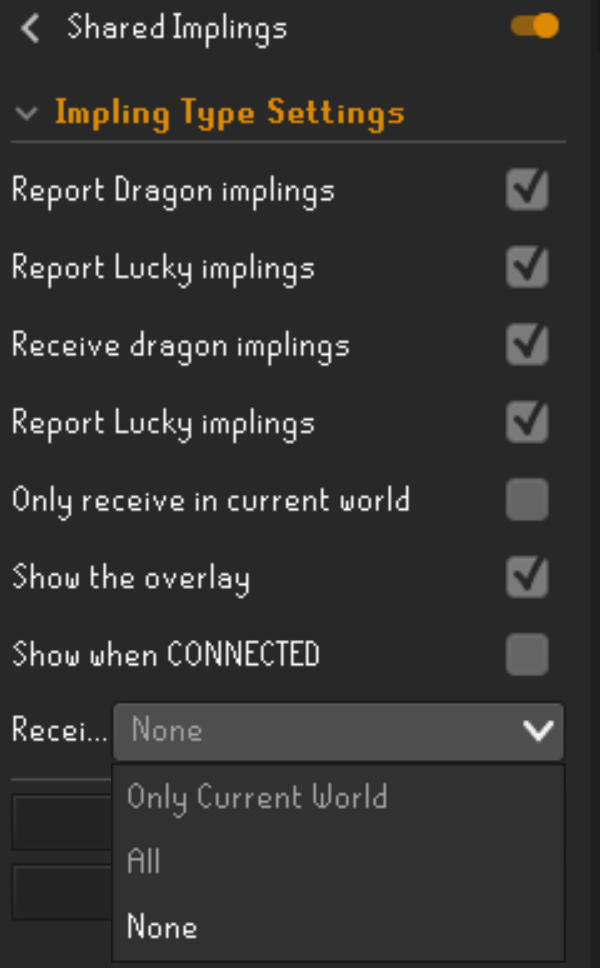
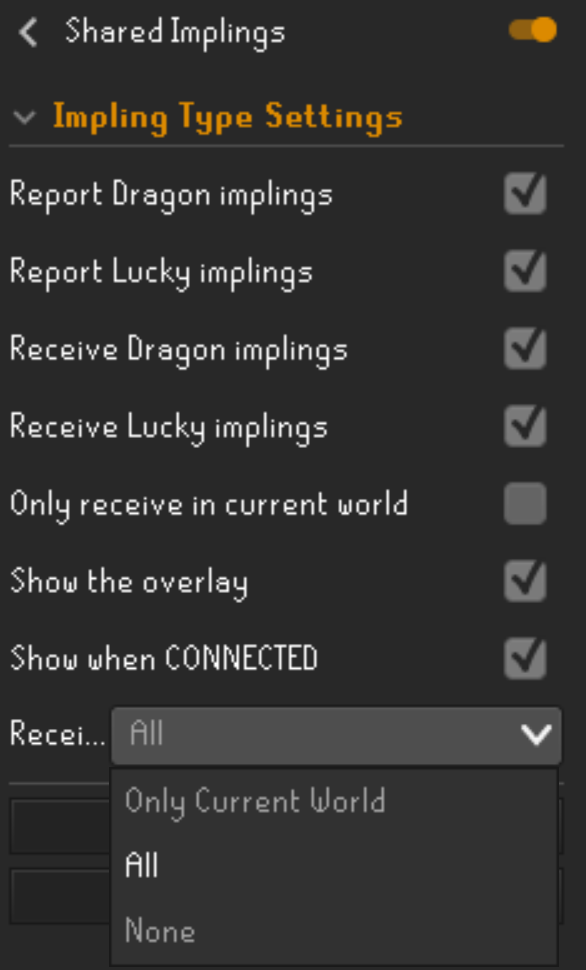
Fix typo in config

diff --git a/src/main/java/be/sharedimplings/SharedImplingsConfig.java b/src/main/java/be/sharedimplings/SharedImplingsConfig.java
@@ -45,7 +45,7 @@ public interface SharedImplingsConfig extends Config
 	@ConfigItem(
 			position = 3,
 			keyName = "receivedragon",
-			name = "Receive dragon implings",
+			name = "Receive Dragon implings",
 			description = "Configures whether or not you want to receive dragon implings from others",
 			section = implingSection
 	)
@@ -57,7 +57,7 @@ public interface SharedImplingsConfig extends Config
 	@ConfigItem(
 			position = 4,
 			keyName = "receivelucky",
-			name = "Report Lucky implings",
+			name = "Receive Lucky implings",
 			description = "Configures whether or not you want to receive lucky implings from others",
 			section = implingSection
 	)
